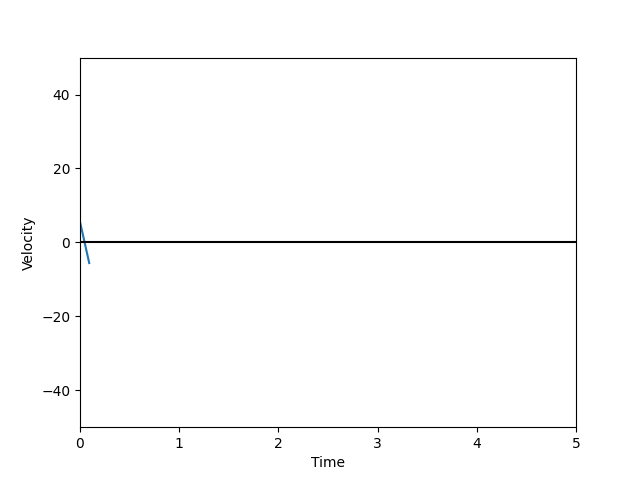
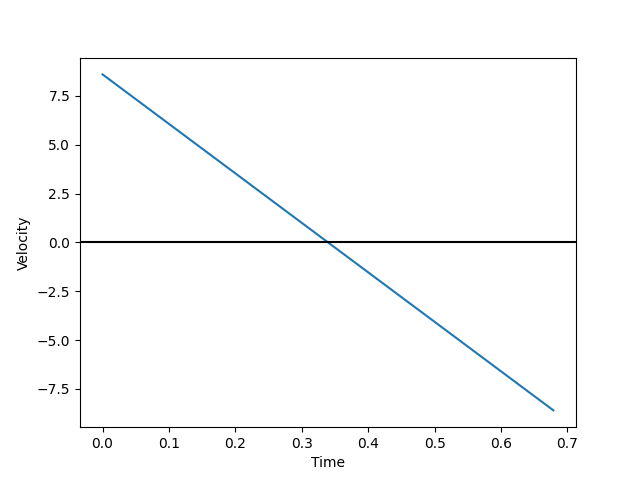
added questions.py

diff --git a/projectile_simulator.py b/projectile_simulator.py
@@ -70,31 +70,31 @@ class Graphics:
     def draw_text(self,v_velocity,h_velocity,angle,h_max,t):
         textfont = pygame.font.Font(None,30)
         if units == "M":
-            window.blit(pygame.font.Font.render(textfont, f"Horizontal Velocity: {h_velocity}m/s", True, self.black, None), (450,500))
-            window.blit(pygame.font.Font.render(textfont, f"Vertical Velocity: {v_velocity}m/s", True, self.black, None), (160,500))
-            window.blit(pygame.font.Font.render(textfont, f"Max Height: {round(h_max,2)}m", True, self.black, None), (10,550))
+            window.blit(pygame.font.Font.render(textfont, f"Horizontal Velocity: {h_velocity} m/s", True, self.black, None), (450,500))
+            window.blit(pygame.font.Font.render(textfont, f"Vertical Velocity: {v_velocity} m/s", True, self.black, None), (160,500))
+            window.blit(pygame.font.Font.render(textfont, f"Max Height: {round(h_max,2)} m", True, self.black, None), (10,550))
         if units == "CM":
-            window.blit(pygame.font.Font.render(textfont, f"Horizontal Velocity: {h_velocity}cm/s", True, self.black, None), (450,500))
-            window.blit(pygame.font.Font.render(textfont, f"Vertical Velocity: {v_velocity}cm/s", True, self.black, None), (160,500))
-            window.blit(pygame.font.Font.render(textfont, f"Max Height: {round(h_max,2)}cm", True, self.black, None), (10,550))
+            window.blit(pygame.font.Font.render(textfont, f"Horizontal Velocity: {h_velocity} cm/s", True, self.black, None), (450,500))
+            window.blit(pygame.font.Font.render(textfont, f"Vertical Velocity: {v_velocity} cm/s", True, self.black, None), (160,500))
+            window.blit(pygame.font.Font.render(textfont, f"Max Height: {round(h_max,2)} ncm", True, self.black, None), (10,550))
         if units == "KM":
-            window.blit(pygame.font.Font.render(textfont, f"Horizontal Velocity: {h_velocity}km/h", True, self.black, None), (450,500))
-            window.blit(pygame.font.Font.render(textfont, f"Vertical Velocity: {v_velocity}km/h", True, self.black, None), (160,500))
-            window.blit(pygame.font.Font.render(textfont, f"Max Height: {round(h_max,2)}km", True, self.black, None), (10,550))
+            window.blit(pygame.font.Font.render(textfont, f"Horizontal Velocity: {h_velocity} km/h", True, self.black, None), (450,500))
+            window.blit(pygame.font.Font.render(textfont, f"Vertical Velocity: {v_velocity} km/h", True, self.black, None), (160,500))
+            window.blit(pygame.font.Font.render(textfont, f"Max Height: {round(h_max,2)} km", True, self.black, None), (10,550))
         if units == "IN":
-            window.blit(pygame.font.Font.render(textfont, f"Horizontal Velocity: {h_velocity}in/s", True, self.black, None), (450,500))
-            window.blit(pygame.font.Font.render(textfont, f"Vertical Velocity: {v_velocity}in/s", True, self.black, None), (160,500))
-            window.blit(pygame.font.Font.render(textfont, f"Max Height: {round(h_max,2)}in", True, self.black, None), (10,550))
+            window.blit(pygame.font.Font.render(textfont, f"Horizontal Velocity: {h_velocity} in/s", True, self.black, None), (450,500))
+            window.blit(pygame.font.Font.render(textfont, f"Vertical Velocity: {v_velocity} in/s", True, self.black, None), (160,500))
+            window.blit(pygame.font.Font.render(textfont, f"Max Height: {round(h_max,2)} in", True, self.black, None), (10,550))
         if units == "FT":
-            window.blit(pygame.font.Font.render(textfont, f"Horizontal Velocity: {h_velocity}ft/m", True, self.black, None), (450,500))
-            window.blit(pygame.font.Font.render(textfont, f"Vertical Velocity: {v_velocity}ft/m", True, self.black, None), (160,500))
-            window.blit(pygame.font.Font.render(textfont, f"Max Height: {round(h_max,2)}ft", True, self.black, None), (10,550))
+            window.blit(pygame.font.Font.render(textfont, f"Horizontal Velocity: {h_velocity} ft/m", True, self.black, None), (450,500))
+            window.blit(pygame.font.Font.render(textfont, f"Vertical Velocity: {v_velocity} ft/m", True, self.black, None), (160,500))
+            window.blit(pygame.font.Font.render(textfont, f"Max Height: {round(h_max,2)} ft", True, self.black, None), (10,550))
         if units == "MI":
-            window.blit(pygame.font.Font.render(textfont, f"Horizontal Velocity: {h_velocity}mph", True, self.black, None), (450,500))
-            window.blit(pygame.font.Font.render(textfont, f"Vertical Velocity: {v_velocity}mph", True, self.black, None), (160,500))
-            window.blit(pygame.font.Font.render(textfont, f"Max Height: {round(h_max,2)}mi", True, self.black, None), (10,550))
+            window.blit(pygame.font.Font.render(textfont, f"Horizontal Velocity: {h_velocity} mph", True, self.black, None), (450,500))
+            window.blit(pygame.font.Font.render(textfont, f"Vertical Velocity: {v_velocity} mph", True, self.black, None), (160,500))
+            window.blit(pygame.font.Font.render(textfont, f"Max Height: {round(h_max,2)} mi", True, self.black, None), (10,550))
         window.blit(pygame.font.Font.render(textfont, f"Angle: {angle}°", True, self.black, None), (10,500))
-        window.blit(pygame.font.Font.render(textfont, f"Time: {round(t,2)}", True, self.black, None), (200,550))
+        window.blit(pygame.font.Font.render(textfont, f"Time: {round(t,2)} s", True, self.black, None), (200,550))
     
     def show_image(self,img):
         try:
@@ -121,6 +121,8 @@ class Graphics:
             except FileNotFoundError:
                 pass
             show = True
+        if keys[pygame.K_RETURN]:
+            pass # show graphs
         if keys[pygame.K_UP]:
             v_velocity+=0.5
         if keys[pygame.K_DOWN]:
@@ -161,8 +163,8 @@ def plot(x,y,v_velocity,h_velocity,t):
     plt.savefig("saves/xy.png")
     plt.close()
     plt.figure(1)
-    plt.xlim(0,5)
-    plt.ylim(-50,50)
+    plt.xlabel("Time")
+    plt.ylabel("Velocity")
     plt.plot((0,t),(v,-v))
     plt.axhline(0,color='black')
     plt.xlabel("Time")

diff --git a/questions.py b/questions.py
@@ -1,0 +1,8 @@
+import pygame
+import pygame.freetype
+import math
+import sqlite3
+
+# questions db
+
+#questions logic
